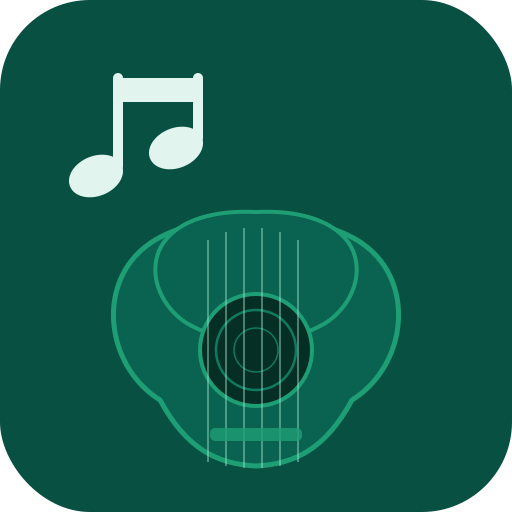
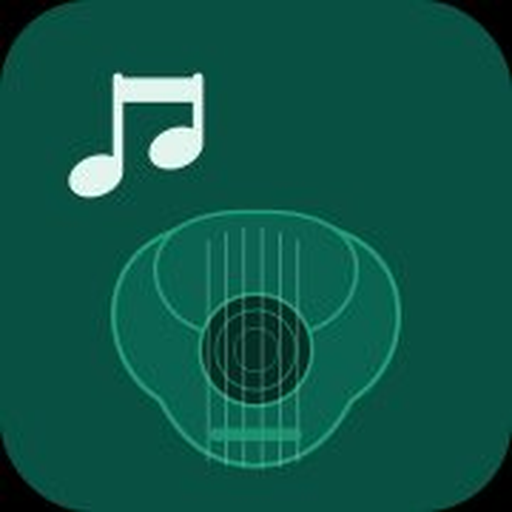
Add files via upload

diff --git a/sw.js b/sw.js
@@ -1,4 +1,5 @@
-const CACHE = "jazz-quiz-v2";
+// Jazz Guitar Study — Service Worker v30
+const CACHE = "jazz-study-v30";
 const ASSETS = [
   "./",
   "./index.html",
@@ -10,22 +11,20 @@ const ASSETS = [
 
 self.addEventListener("install", e => {
   e.waitUntil(
-    caches.open(CACHE).then(c => c.addAll(ASSETS))
+    caches.open(CACHE).then(c => c.addAll(ASSETS)).then(() => self.skipWaiting())
   );
-  self.skipWaiting();
 });
 
 self.addEventListener("activate", e => {
   e.waitUntil(
     caches.keys().then(keys =>
       Promise.all(keys.filter(k => k !== CACHE).map(k => caches.delete(k)))
-    )
+    ).then(() => self.clients.claim())
   );
-  self.clients.claim();
 });
 
 self.addEventListener("fetch", e => {
   e.respondWith(
-    caches.match(e.request).then(r => r || fetch(e.request))
+    caches.match(e.request).then(cached => cached || fetch(e.request))
   );
 });